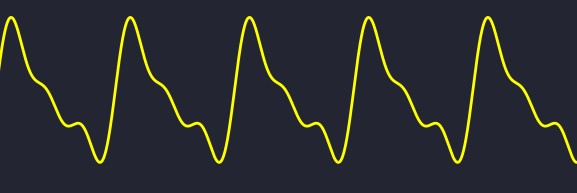
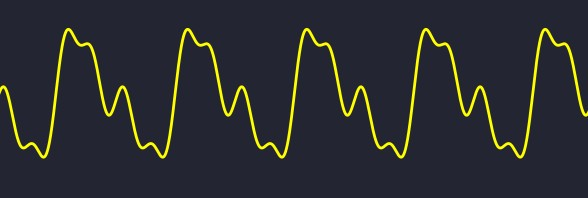
fix all

Changed region(s): [[0.0, 0.0622, 1.0, 0.8705], [0.9671, 0.2487, 1.0, 0.6218]]

diff --git a/ui_main.py b/ui_main.py
@@ -462,16 +462,14 @@ class MainScreen(QDialog):
         self.control_layer.addWidget(self.canvas)
         self.figure.patch.set_facecolor((35/256, 38/256, 50/256))
         self.cax = self.ax.imshow(filtered_signal, aspect='auto', cmap=hdsdr_cmap, vmin=0, vmax=120, origin='upper', extent=[low_freq, high_freq, time.max(), time.min()])
-        self.ax.set_xlabel("Frequency [MHz]")
-        self.ax.set_ylabel("Time [s]")
+        self.ax.set_xlabel("Частота, МГц")
+        self.ax.set_ylabel("Время, с")
 
         self.ax.tick_params(axis='x', colors='white')
         self.ax.tick_params(axis='y', colors='white')
         self.ax.xaxis.label.set_color('white')
         self.ax.yaxis.label.set_color('white')
         self.ax.title.set_color('white')
-
-        self.ax.set_title(f"RF Spectrum ({low_freq:.1f} - {high_freq:.1f} MHz)")
 
         self.selected_line, = self.ax.plot([], [], color='red', linestyle='-', linewidth=2)
         self.selected_freq = None
@@ -531,7 +529,6 @@ class MainScreen(QDialog):
         filter_signal()
         self.cax.set_data(filtered_signal)
         self.cax.set_extent([low_freq, high_freq, time.max(), time.min()])
-        self.ax.set_title(f"RF Spectrum ({low_freq:.1f} - {high_freq:.1f} MHz)")
         self.canvas.draw()
 
     def search(self, peleng):

diff --git a/ui_perehvat.py b/ui_perehvat.py
@@ -82,7 +82,7 @@ class PerehvatScreen(QDialog):
             self.ax_sp.tick_params(axis='x', colors='white')  # Цвет цифр на оси X
             self.ax_sp.tick_params(axis='y', colors='white')  # Цвет цифр на оси Y
             self.ax_sp.set_xlabel('Частота, МГц', color='white')
-            self.ax_sp.set_ylabel('Амплитуда (дБ)', color='white')
+            self.ax_sp.set_ylabel('Амплитуда (логарифмическая шкала)', color='white')
             self.ax_sp.grid(True)
             self.figure_sp.canvas.draw()
         else:

diff --git a/ui_theory.py b/ui_theory.py
@@ -18,7 +18,7 @@ class TheoryScreen(QDialog):
     t = np.linspace(0, T, int(fs*T), endpoint=False)  # Временная ось
     Ac = 400
     Am = [1, 0.5, 0.3, 0.2, 0.1] # амплитуды модулирующих сигналов
-    fm = [10, 20, 30, 40, 50] # частоты модулирующих сигналов
+    fm = [10, 20, 40, 50, 60] # частоты модулирующих сигналов
     
 
     signal_goto_main   = pyqtSignal()
